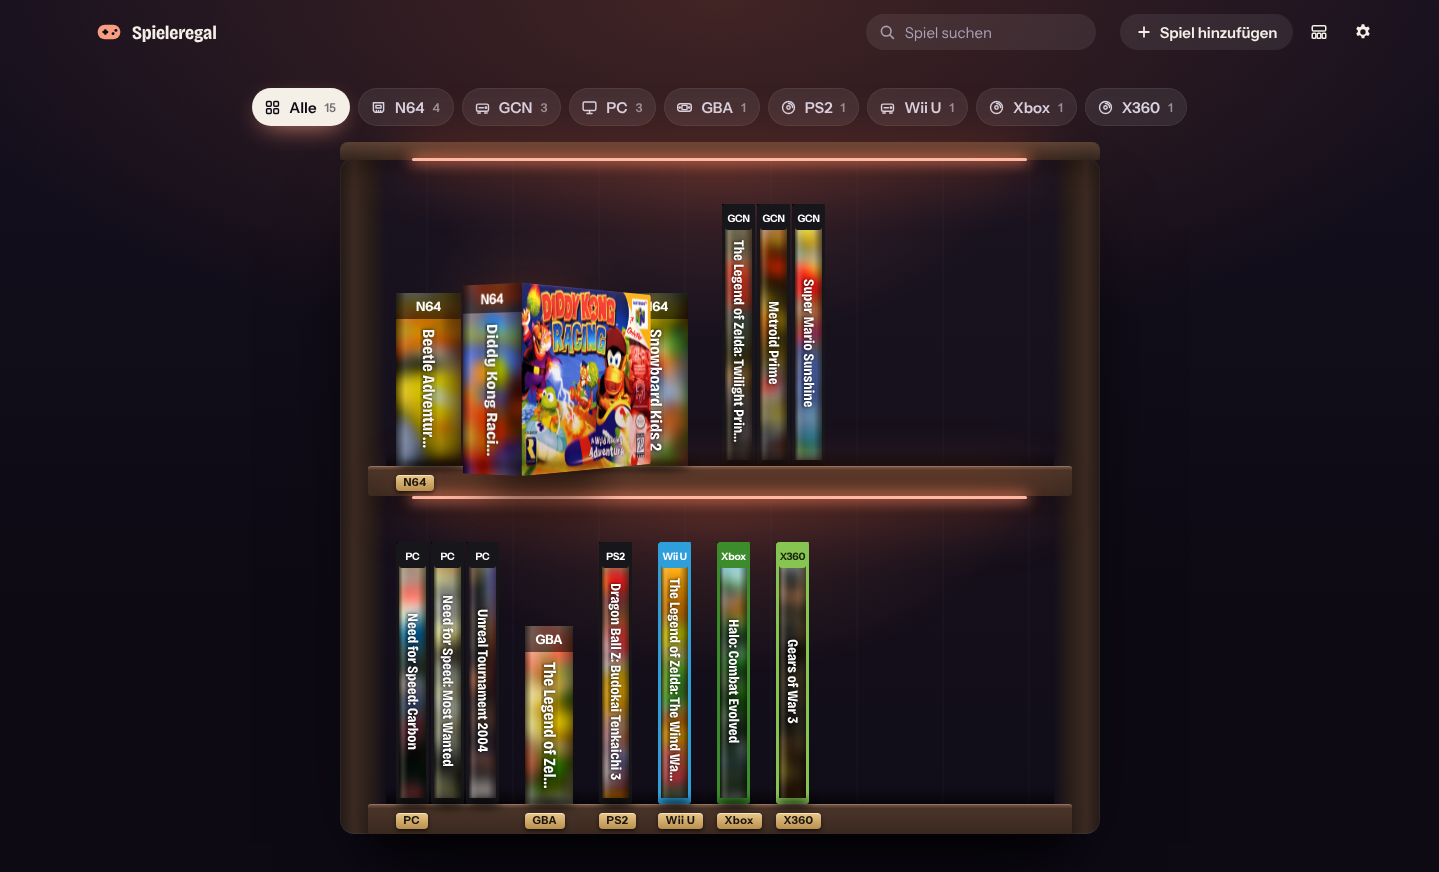
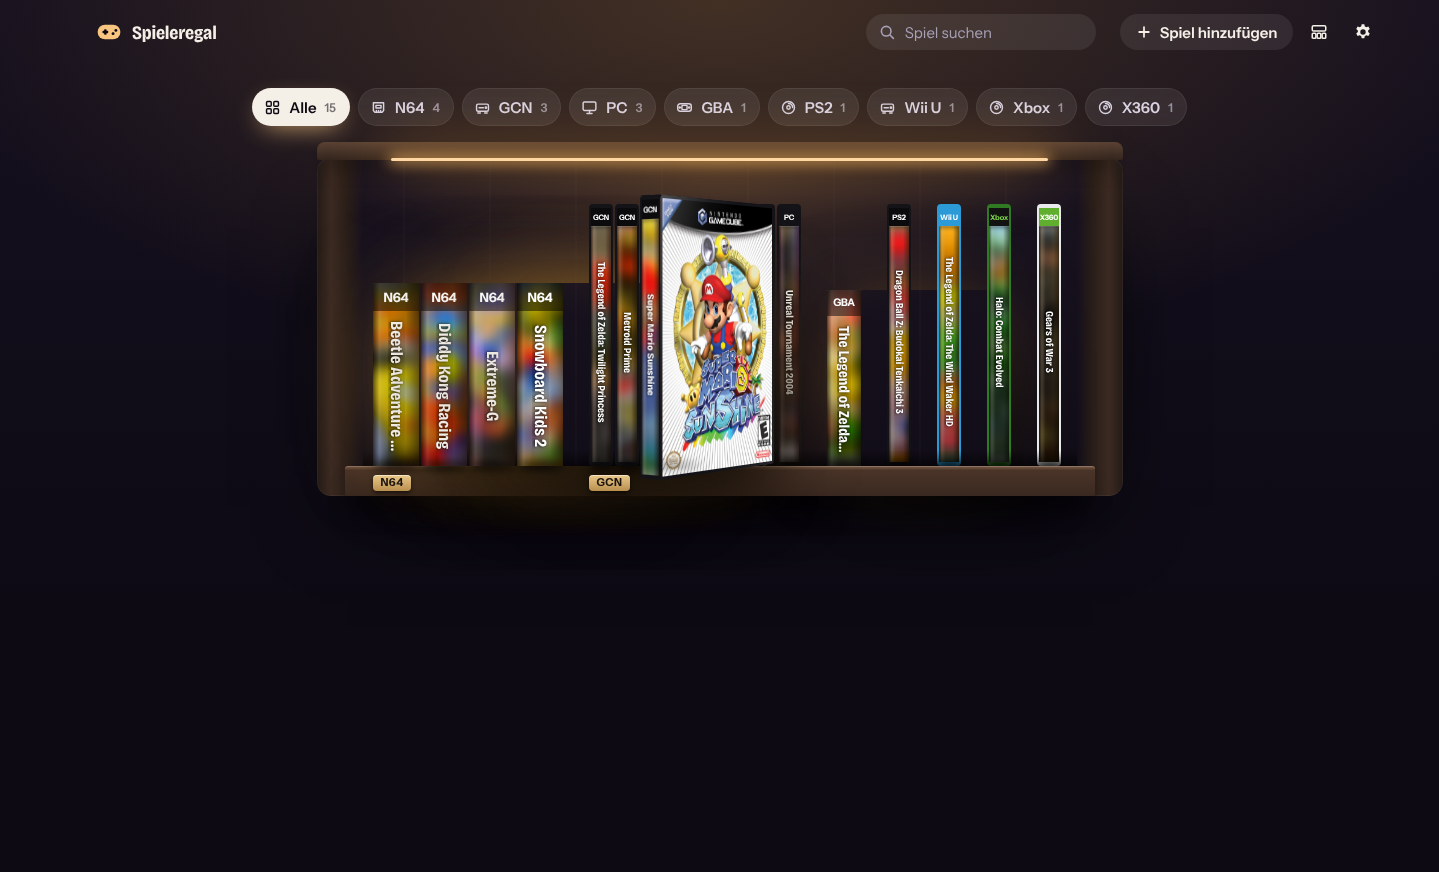
Regal: echte Rückenmaße, sanfteres Herausgleiten, Hüllen ohne Knick
- Rückenbreiten nach echten Verpackungen; N64 deutlich schmaler
- Kopfband in Plattformfarbe auf dem Rücken
- Hover in zwei Schritten: erst herausgleiten, dann kippen; rückwärts beim Verlassen
- Nur der Rücken reagiert auf die Maus; Cover im Regal verdeckt
- Herausgezogen und in der Mediathek: echte 3D-Kante statt aufgemaltem Knick
- README: neue Screenshots

diff --git a/app/renderer/shelf.css b/app/renderer/shelf.css
@@ -16,7 +16,7 @@
 .board { position: relative; padding-top: 38px; }
 .lamp { position: absolute; left: 4%; right: 4%; top: 0; height: 3px; border-radius: 2px; background: hsl(var(--h) 100% 82%); box-shadow: 0 0 14px 2px hsl(var(--h) 100% 70% / .9), 0 0 60px 10px hsl(var(--h) 90% 60% / .45); transition: background .8s, box-shadow .8s; }
 .lamp::after { content: ''; position: absolute; left: -4%; right: -4%; top: 3px; height: calc(var(--H) * .9); background: radial-gradient(60% 100% at 50% 0%, hsl(var(--h) 80% 60% / .2), transparent 75%); pointer-events: none; transition: background .8s; }
-.stand { position: relative; display: flex; align-items: flex-end; gap: 24px; min-height: calc(var(--H) + 8px); padding: 0 10px; }
+.stand { position: relative; display: flex; align-items: flex-end; gap: 24px; min-height: calc(var(--H) + 8px); padding: 0 48px 0 10px; }
 .grp { position: relative; display: flex; align-items: flex-end; transition: transform .55s var(--ease); }
 .grp:has(.slot:is(:hover, .hov, :focus-visible)) ~ .grp { transform: translateX(34px); }
 .tag { position: absolute; left: 0; bottom: -25px; z-index: 2; padding: 2px 8px 3px; border-radius: 4px; font: 700 11px/1 'Instrument'; letter-spacing: .04em; color: #1c140f; background: linear-gradient(180deg, #e9c98a, #b98f4e); box-shadow: 0 1px 0 rgba(255,255,255,.5) inset, 0 2px 4px rgba(0,0,0,.6); white-space: nowrap; }
@@ -25,19 +25,28 @@
 
 /* ---------- Hüllen ---------- */
 /* Im Regal steht jede Hülle gerade: zu sehen ist nur der Rücken. Das Cover liegt dahinter und kommt erst beim Herausziehen ins Bild. */
-.slot { position: relative; flex: none; width: var(--sw); height: var(--h); z-index: 1; transition: transform .55s var(--ease); }
+.slot { position: relative; flex: none; width: var(--sw); height: var(--h); z-index: 1; perspective: 1500px; perspective-origin: 50% 40%;
+  transition: transform .8s cubic-bezier(.45,.05,.2,1) .05s; }
 .slot:hover, .slot.hov, .slot:focus-visible { z-index: 5; outline: none; }
-/* Die Nachbarn rechts rücken ein Stück, wenn eine Hülle herauskommt */
-.slot:is(:hover, .hov, :focus-visible) ~ .slot { transform: translateX(26px); }
-.slot:is(:hover, .hov, :focus-visible) + .slot { transform: translateX(34px); }
+/* Die Nachbarn rechts rücken sanft zur Seite, wenn eine Hülle herauskommt */
+.slot:is(:hover, .hov, :focus-visible) ~ .slot { transform: translateX(28px); }
+.slot:is(:hover, .hov, :focus-visible) + .slot { transform: translateX(36px); }
 .slot.gone .case { visibility: hidden; }
-.slot .foot { position: absolute; left: 0; right: 0; bottom: -4px; height: 9px; border-radius: 50%; background: rgba(0,0,0,.75); filter: blur(4px); transition: transform .55s var(--ease), opacity .55s; }
-.slot:is(:hover, .hov, :focus-visible) .foot { transform: scaleX(2.2) translateX(20%); opacity: .5; }
+.slot .foot { position: absolute; left: 0; right: 0; bottom: -4px; height: 9px; border-radius: 50%; background: rgba(0,0,0,.75); filter: blur(4px); transition: transform .8s cubic-bezier(.45,.05,.2,1), opacity .8s; }
+.slot:is(:hover, .hov, :focus-visible) .foot { transform: scaleX(2.4) translateX(22%); opacity: .45; }
 .slot.lost .case img, .slot.lost .case .spine { filter: grayscale(.9) brightness(.7); }
-.case { position: absolute; left: 0; bottom: 0; width: var(--w); height: var(--h); transform-style: preserve-3d; transform-origin: 0 50%;
-  transform: perspective(1500px) translateZ(0) rotateY(90deg); transition: transform .6s cubic-bezier(.22,.9,.24,1); will-change: transform; }
-.slot:is(:hover, .hov, :focus-visible) .case { transform: perspective(1500px) translateZ(120px) rotateY(54deg); }
-.slot:active .case { transform: perspective(1500px) translateZ(150px) rotateY(48deg); transition-duration: .25s; }
+/* Zwei Bewegungen, zeitlich versetzt: Erst gleitet die Hülle nach vorn (.case), dann kippt sie zur Seite (.sway).
+   Beim Loslassen läuft es umgekehrt: erst zurückdrehen, dann zurückschieben. */
+.case { position: absolute; left: 0; bottom: 0; width: var(--w); height: var(--h); transform-style: preserve-3d;
+  transform: translateZ(0); transition: transform .7s cubic-bezier(.45,.05,.2,1) .18s; will-change: transform; }
+/* Im Regal verdeckt: Cover und Deckel sind erst zu sehen, wenn die Hülle herauskommt. Nur der Platz des Rückens reagiert auf die Maus. */
+.slot .case { pointer-events: none; }
+.slot .front, .slot .top { visibility: hidden; transition: visibility 0s linear 1.1s; }
+.slot:is(:hover, .hov, :focus-visible, :active) .front, .slot:is(:hover, .hov, :focus-visible, :active) .top { visibility: visible; transition-delay: 0s; }
+.slot .sway { transform-origin: 0 50%; transform: rotateY(90deg); transition: transform .75s cubic-bezier(.45,.05,.2,1) 0s; }
+.slot:is(:hover, .hov, :focus-visible) .case { transform: translateZ(110px); transition-delay: 0s; transition-duration: .65s; }
+.slot:is(:hover, .hov, :focus-visible) .sway { transform: rotateY(52deg); transition-delay: .14s; transition-duration: .85s; }
+.slot:active .case { transform: translateZ(130px); transition-duration: .3s; transition-delay: 0s; }
 .sway { position: absolute; inset: 0; transform-style: preserve-3d; }
 .case .front, .case .spine, .case .top { position: absolute; left: 0; top: 0; overflow: hidden; }
 .case .front { width: 100%; height: 100%; transform: translateZ(var(--d)); background: #222; border-radius: 3px 5px 5px 3px; backface-visibility: hidden; }
@@ -55,27 +64,28 @@
 .case .top { width: 100%; height: var(--d); transform-origin: 50% 0; transform: rotateX(90deg); background: linear-gradient(180deg, #000, var(--plastic)); }
 .case .gloss { position: absolute; inset: 0; pointer-events: none; }
 /* Kunststoffhülle: Rahmen in Hüllenfarbe, Scharnier, Glanz */
-.case.dvd .front { box-shadow: 0 0 0 2px var(--plastic) inset; }
-.case.dvd .front::before { content: ''; position: absolute; left: 0; top: 0; bottom: 0; width: 7%; z-index: 1; background: linear-gradient(90deg, var(--plastic), color-mix(in oklab, var(--plastic) 70%, #fff) 45%, color-mix(in oklab, var(--plastic) 80%, #000) 60%, transparent); opacity: .85; }
+.case.dvd .front { box-shadow: 0 0 0 3px var(--plastic) inset; border-radius: 4px; }
+.case.dvd .front img { border-radius: 4px; padding: 3px; background: var(--plastic); }
 .case.dvd .gloss { background: linear-gradient(112deg, rgba(255,255,255,.24) 0, rgba(255,255,255,.05) 26%, transparent 42%, transparent 70%, rgba(255,255,255,.08)); }
-.case.dvd .spine { border: solid var(--plastic); border-width: 6px 3px; border-radius: 3px; }
-.case.dvd .spine .plat { background: var(--plastic); color: var(--ink); padding-top: 4px; border-radius: 0 0 3px 3px; }
+.case.dvd .spine { border: solid var(--plastic); border-width: 4px 2px; border-radius: 4px; }
+.case.dvd .spine .plat { background: var(--band); color: var(--ink); padding: 6px 0 5px; box-shadow: 0 1px 0 rgba(255,255,255,.12), 0 2px 4px rgba(0,0,0,.4); }
 /* Karton: matte Kanten */
 .case.box .front { border-radius: 2px; }
 .case.box .gloss { background: linear-gradient(180deg, rgba(255,255,255,.08), transparent 30%, rgba(0,0,0,.12)); }
 .case.box .spine { border-radius: 1px; box-shadow: 0 0 0 1px rgba(0,0,0,.4) inset; }
-.case.box .spine .plat { background: rgba(0,0,0,.55); }
+.case.box .spine .plat { background: linear-gradient(180deg, rgba(0,0,0,.72), rgba(0,0,0,.5)); padding: 8px 0 7px; }
 .case.box .top { background: linear-gradient(180deg, #000, hsl(var(--ch) 50% 22%)); }
 @keyframes stockfade { from { opacity: 0; } }
 .load .slot { animation: stockfade .5s ease both; animation-delay: calc(.15s + var(--i) * 45ms); }
-@keyframes stock { from { transform: perspective(1500px) translateZ(140px) translateY(-26px) rotateY(90deg); } }
+@keyframes stock { from { transform: translateZ(140px) translateY(-26px); } }
 .load .slot .case { animation: stock .8s var(--ease) both; animation-delay: calc(.15s + var(--i) * 45ms); }
 
 /* ---------- Herausgezogen ---------- */
 .pull { position: fixed; inset: 0; z-index: 40; }
 .pull::before { content: ''; position: absolute; inset: 0; background: radial-gradient(60% 70% at 30% 50%, hsl(var(--h) 60% 30% / .5), transparent 70%), rgba(8,6,12,.82); backdrop-filter: blur(18px); opacity: 0; transition: opacity .5s; }
 .pull.on::before { opacity: 1; }
-.pull-stage .case .front { box-shadow: 0 0 0 2px var(--plastic) inset, 30px 40px 70px -10px rgba(0,0,0,.8); overflow: visible; }
+.pull-stage .case .front { box-shadow: 30px 40px 70px -10px rgba(0,0,0,.8); }
+.pull-stage .case.dvd .front { box-shadow: 0 0 0 3px var(--plastic) inset, 30px 40px 70px -10px rgba(0,0,0,.8); }
 .pull-stage .case .front img { border-radius: inherit; }
 .pull-stage .sway { transition: transform .5s var(--ease); }
 .pull-stage .case.idle .sway { transform: rotateY(var(--mx, 0deg)) rotateX(var(--my, 0deg)); transform-origin: 50% 50%; }

diff --git a/app/renderer/shelf.js b/app/renderer/shelf.js
@@ -1,28 +1,32 @@
 /* Spieleregal – Regal-Ansicht: Hüllen stehen mit dem Rücken nach vorn und lassen sich herausziehen */
-const DVD = { kind: 'dvd', h: 1, d: 0.078, plastic: '#17171b', ink: '#fff' };
-const BOX = { kind: 'box', h: 0.66, d: 0.155 };
-// Maße relativ zur DVD-Hülle (19 cm hoch); Farben wie die echten Hüllen der jeweiligen Plattform
+// Maße relativ zur Höhe einer DVD-Hülle (19 cm), nach den echten Verpackungen:
+// Kunststoffhüllen 14 mm Rücken, N64-Karton 13,3 cm hoch und 3,3 cm tief, GBA-Karton 12,7 cm hoch und 2,5 cm tief
+const DVD = { kind: 'dvd', h: 1, d: 0.074, plastic: '#141418', ink: '#fff' };
+const BOX = { kind: 'box', h: 0.7, d: 0.174 };
+// Farben der Hüllen und des Kopfbands auf dem Rücken, wie bei den Originalen
 const CASES = {
-  'Nintendo 64': BOX, 'SNES': BOX, 'NES': { kind: 'box', h: 0.93, d: 0.1 }, 'Mega Drive': { ...DVD, h: 0.93, d: 0.12 },
-  'Game Boy': { kind: 'box', h: 0.66, d: 0.115 }, 'Game Boy Color': { kind: 'box', h: 0.66, d: 0.115 }, 'Game Boy Advance': { kind: 'box', h: 0.68, d: 0.115 },
+  'Nintendo 64': BOX, 'SNES': { kind: 'box', h: 0.7, d: 0.2 }, 'NES': { kind: 'box', h: 0.97, d: 0.14 }, 'Mega Drive': { ...DVD, h: 0.98, d: 0.12 },
+  'Game Boy': { kind: 'box', h: 0.67, d: 0.13 }, 'Game Boy Color': { kind: 'box', h: 0.67, d: 0.13 }, 'Game Boy Advance': { kind: 'box', h: 0.67, d: 0.13 },
   'Nintendo DS': { ...DVD, h: 0.66, d: 0.08 }, 'Nintendo 3DS': { ...DVD, h: 0.66, d: 0.07, plastic: '#eceef1', ink: '#23232a' },
-  'GameCube': DVD, 'Wii': { ...DVD, plastic: '#eef0f3', ink: '#23232a' }, 'Wii U': { ...DVD, plastic: '#2f9fdc' },
-  'PlayStation': { ...DVD, h: 0.66, d: 0.056, plastic: '#2b2b33' }, 'PlayStation 2': DVD, 'PlayStation 3': { ...DVD, h: 0.9, plastic: '#cfd5dc', ink: '#23232a' }, 'PSP': { ...DVD, h: 0.9, d: 0.07, plastic: '#d5dae0', ink: '#23232a' },
-  'Xbox': { ...DVD, plastic: '#3c8c2b' }, 'Xbox 360': { ...DVD, plastic: '#86c552', ink: '#17250c' },
-  'Dreamcast': { ...DVD, h: 0.66, d: 0.056, plastic: '#e9ebee', ink: '#23232a' }, 'Saturn': { ...DVD, h: 0.93, d: 0.09 },
+  'GameCube': { ...DVD, band: '#0b0b0e' }, 'Wii': { ...DVD, plastic: '#f1f2f4', ink: '#1d1d22', band: '#f1f2f4' }, 'Wii U': { ...DVD, plastic: '#2b9ad6', band: '#2b9ad6' },
+  'PlayStation': { ...DVD, h: 0.66, d: 0.056, plastic: '#2b2b33' }, 'PlayStation 2': { ...DVD, band: '#0b0b0e' }, 'PlayStation 3': { ...DVD, h: 0.9, plastic: '#cfd5dc', ink: '#23232a' }, 'PSP': { ...DVD, h: 0.9, d: 0.07, plastic: '#d5dae0', ink: '#23232a' },
+  'Xbox': { ...DVD, plastic: '#2f7a22', band: '#121212', ink: '#7bd24a' }, 'Xbox 360': { ...DVD, plastic: '#e8eaec', band: '#5fae2e', ink: '#fff' },
+  'Dreamcast': { ...DVD, h: 0.66, d: 0.056, plastic: '#e9ebee', ink: '#23232a' }, 'Saturn': { ...DVD, h: 0.98, d: 0.09 },
 };
+// Angehobene Hülle: wie weit sie herauskommt und wie stark sie kippt
+const HOVER_Z = 110, HOVER_A = 52;
 let pulled = null;
 
 function caseSpec(g, H) {
   const c = CASES[g.platform] || DVD;
   const h = Math.round(H * c.h), ratio = g.coverUrl ? Math.min(1.5, Math.max(0.62, g.ratio || 0.71)) : 0.71;
-  // Rücken etwas kräftiger als maßstabsgetreu, damit Titel und Motiv lesbar bleiben
-  const w = Math.round(h * ratio), d = Math.round(H * c.d * 1.6);
+  // Kunststoffrücken minimal breiter als echt, damit der Titel lesbar bleibt; Kartons maßstabsgetreu
+  const w = Math.round(h * ratio), d = Math.round(Math.max(H * c.d * (c.kind === 'dvd' ? 1.25 : 1), 22));
   return { ...c, h, w, d, slot: d + 2 };
 }
 function caseHtml(g, s) {
   const art = g.coverUrl ? `<img src="${esc(g.coverUrl)}" alt="" draggable="false">` : `<div class="ph"><b>${esc(g.title)}</b></div>`;
-  return `<div class="case ${s.kind}${g.coverUrl ? ' art' : ''}" style="--w:${s.w}px;--h:${s.h}px;--d:${s.d}px;--ch:${hue(g)};--plastic:${s.plastic || '#111'};--ink:${s.ink || '#fff'}${g.coverUrl ? `;--art:url('${g.coverUrl.replace(/'/g, '%27')}')` : ''}">
+  return `<div class="case ${s.kind}${g.coverUrl ? ' art' : ''}" style="--w:${s.w}px;--h:${s.h}px;--d:${s.d}px;--ch:${hue(g)};--plastic:${s.plastic || '#111'};--band:${s.band || s.plastic || 'rgba(0,0,0,.55)'};--ink:${s.ink || '#fff'}${g.coverUrl ? `;--art:url('${g.coverUrl.replace(/'/g, '%27')}')` : ''}">
     <div class="sway"><div class="front">${art}<i class="gloss"></i></div>
     <div class="spine"><span class="plat">${esc(SHORT[g.platform] || g.platform || '')}</span><span class="ttl">${esc(g.title)}</span></div>
     <div class="top"></div></div></div>`;
@@ -86,9 +90,9 @@ function pullOut(id) {
   $('#p-fav').classList.toggle('on', !!g.favorite);
   pullEl.hidden = false; void pullEl.offsetWidth; pullEl.classList.add('on');
   const anim = c.animate([
-    { transform: T(sx, sy, 0, 90, 1), offset: 0 },
-    { transform: T(sx, sy - 4, 190, 66, 1), offset: 0.34, easing: 'cubic-bezier(.3,0,.2,1)' },
-    { transform: T(tx, ty, 0, -14, scale), offset: 1 },
+    { transform: T(sx, sy, HOVER_Z, HOVER_A, 1), offset: 0 },
+    { transform: T(sx, sy - 6, 210, 44, 1), offset: 0.3, easing: 'cubic-bezier(.3,0,.2,1)' },
+    { transform: T(tx, ty, 0, 18, scale), offset: 1 },
   ], { duration: matchMedia('(prefers-reduced-motion: reduce)').matches ? 1 : 1000, easing: 'cubic-bezier(.5,0,.3,1)', fill: 'forwards' });
   anim.finished.then(() => { if (pulled === id) c.classList.add('idle'); }).catch(() => {});
   pullEl._back = { sx, sy, tx, ty, scale, T, slot, c };
@@ -98,8 +102,8 @@ function pushBack(then) {
   const b = pullEl._back; if (!pulled || !b) return;
   b.c.classList.remove('idle'); pullEl.classList.remove('on');
   const anim = b.c.animate([
-    { transform: b.T(b.tx, b.ty, 0, -14, b.scale), offset: 0 },
-    { transform: b.T(b.sx, b.sy - 4, 190, 66, 1), offset: 0.66 },
+    { transform: b.T(b.tx, b.ty, 0, 18, b.scale), offset: 0 },
+    { transform: b.T(b.sx, b.sy - 6, 210, 52, 1), offset: 0.62 },
     { transform: b.T(b.sx, b.sy, 0, 90, 1), offset: 1 },
   ], { duration: matchMedia('(prefers-reduced-motion: reduce)').matches ? 1 : 620, easing: 'cubic-bezier(.4,0,.2,1)', fill: 'forwards' });
   const id = pulled;

diff --git a/app/renderer/style.css b/app/renderer/style.css
@@ -78,10 +78,15 @@ h1.long { font-size: clamp(34px, 4.2vw, 58px); }
 @keyframes rise { from { opacity: 0; transform: translateY(14px); filter: blur(6px); } }
 
 .hero-art { perspective: 1400px; height: 100%; display: grid; place-items: center; padding: 0 clamp(0px, 3vw, 60px) 36px 0; }
-.box { --rx: 4deg; --ry: -20deg; position: relative; height: min(46vh, 430px); max-width: 44vw; transform: rotateX(var(--rx)) rotateY(var(--ry)); transform-style: preserve-3d; transition: transform .5s var(--ease); border-radius: 6px 10px 10px 6px;
+.box { --rx: 4deg; --ry: -20deg; position: relative; height: min(46vh, 430px); max-width: 44vw; transform: rotateX(var(--rx)) rotateY(var(--ry)); transform-style: preserve-3d; transition: transform .5s var(--ease); border-radius: 5px;
   box-shadow: -1px 0 0 rgba(255,255,255,.25) inset, 30px 40px 70px -20px rgba(0,0,0,.75), 0 0 90px -20px var(--amb); }
 .box img { display: block; height: 100%; max-width: 44vw; object-fit: cover; border-radius: inherit; }
-.box::before { content: ''; position: absolute; inset: 0 auto 0 0; width: 14px; background: linear-gradient(90deg, rgba(0,0,0,.45), rgba(255,255,255,.18) 40%, rgba(0,0,0,.2)); border-radius: 6px 0 0 6px; z-index: 1; }
+.box { --edge: 26px; --plastic: #141418; }
+/* Rechte Kante der Hülle als echte 3D-Fläche statt eines aufgemalten Knicks */
+.box::before { content: ''; position: absolute; top: 2px; bottom: 2px; left: calc(100% - 1px); width: var(--edge); transform-origin: left center; transform: rotateY(90deg);
+  background: linear-gradient(90deg, color-mix(in oklab, var(--plastic) 70%, #fff) 0, var(--plastic) 18%, color-mix(in oklab, var(--plastic) 85%, #000) 80%, color-mix(in oklab, var(--plastic) 60%, #000));
+  border-radius: 0 4px 4px 0; }
+.box.box-card::before { background: linear-gradient(90deg, hsl(var(--h) 40% 40%), hsl(var(--h) 45% 24%)); }
 .box .shine { position: absolute; inset: 0; border-radius: inherit; background: linear-gradient(115deg, transparent 30%, rgba(255,255,255,.22) 46%, transparent 58%); background-size: 250% 100%; background-position: var(--sx, 30%) 0; mix-blend-mode: screen; }
 .box.flip { animation: flip .7s var(--ease); }
 @keyframes flip { 0% { transform: rotateX(var(--rx)) rotateY(calc(var(--ry) + 80deg)) translateX(60px); opacity: 0; } 100% { opacity: 1; } }

diff --git a/app/renderer/app.js b/app/renderer/app.js
@@ -151,6 +151,12 @@ function setFeatured(id, force) {
     box.classList.toggle('empty', !g.coverUrl); img.hidden = !g.coverUrl;
     if (g.coverUrl) img.src = g.coverUrl;
     box.style.background = g.coverUrl ? '' : `linear-gradient(160deg, hsl(${hue(g)} 55% 34%), hsl(${hue(g) + 50} 60% 14%))`;
+    // Kante passend zur Hülle: Kunststofffarbe und Tiefe der Plattform, Karton in Covertönen
+    const spec = (typeof CASES !== 'undefined' && CASES[g.platform]) || { kind: 'dvd', h: 1, d: 0.074, plastic: '#141418' };
+    const bh = box.getBoundingClientRect().height || 400;
+    box.style.setProperty('--edge', Math.round(bh * spec.d / spec.h * (spec.kind === 'dvd' ? 1.3 : 1)) + 'px');
+    box.style.setProperty('--plastic', spec.plastic || '#141418');
+    box.classList.toggle('box-card', spec.kind === 'box');
     box.classList.remove('flip'); void box.offsetWidth; box.classList.add('flip');
     const [a, b] = $$('.backdrop'); const on = backdropFlip ? a : b, off = backdropFlip ? b : a; backdropFlip = !backdropFlip;
     on.style.backgroundImage = g.coverUrl ? `url("${g.coverUrl}")` : 'none'; on.classList.add('on'); off.classList.remove('on');

diff --git a/README.md b/README.md
@@ -54,14 +54,14 @@ Die zweite Ansicht neben der Mediathek: ein beleuchtetes Regal, in dem die Spiel
 
 - **Umschalten.** Knopf neben dem Zahnrad, Schalter „Regal-Ansicht“ in den Einstellungen oder ⌘2. Derselbe Weg führt zurück zur Mediathek, die Wahl bleibt gespeichert.
 - **Aufbau.** Die Spiele sind nach Plattform gruppiert und gleichmäßig auf Böden verteilt; ein Schildchen an der Kante nennt die Plattform. Auf jedem Rücken stehen Plattform und Titel, das Motiv dahinter stammt aus dem Cover.
-- **Hüllen.** Jede Plattform hat eigene Maße und Farben: schwarze Hüllen für GameCube und PS2, hellblau für Wii U, grün für Xbox, weiß für Wii, flachere und dickere Kartons für N64 und Game Boy Advance.
-- **Überfahren.** Die Hülle gleitet ein Stück aus dem Regal und kippt zur Seite, sodass ein Teil des Covers sichtbar wird. Die Nachbarn rücken dabei zur Seite.
+- **Hüllen.** Maße und Farben folgen den echten Verpackungen: schmale Kunststoffhüllen (14 mm Rücken) für GameCube, PS2, Wii U, Xbox und Xbox 360, jeweils mit Kopfband in der Plattformfarbe; niedrigere, tiefere Kartons für N64 und Game Boy Advance.
+- **Überfahren.** Die Hülle gleitet erst ein Stück aus dem Regal und kippt dann zur Seite, sodass ein Teil des Covers sichtbar wird. Die Nachbarn rücken sanft zur Seite; beim Verlassen läuft alles rückwärts.
 
 <p align="center">
   <img src="docs/regal-hover.png" alt="Eine Hülle ist ein Stück herausgezogen und zur Seite gekippt">
 </p>
 
-- **Klick.** Die Hülle wird ganz herausgezogen, dreht sich zur Front und steht groß neben Titel, Beschreibung und „Spielen“. Esc oder ein Klick daneben schiebt sie zurück.
+- **Klick.** Die Hülle wird ganz herausgezogen und dreht sich zur Front, der Rücken bleibt als Kante sichtbar. Sie steht groß neben Titel, Beschreibung und „Spielen“. Esc oder ein Klick daneben schiebt sie zurück.
 - **Licht.** Die Leisten über den Böden nehmen die Farbe des Spiels an, über dem der Mauszeiger steht.
 - **Wie gewohnt.** Plattform-Filter, Suche, Pfeiltasten, Rechtsklick-Menü und Start-Animation funktionieren auch hier.
 
